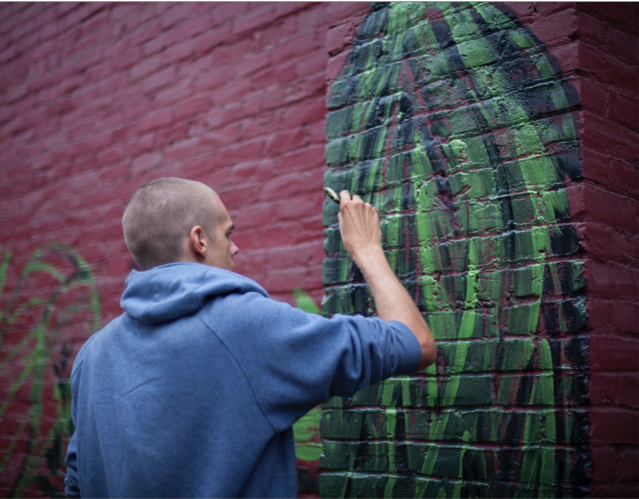
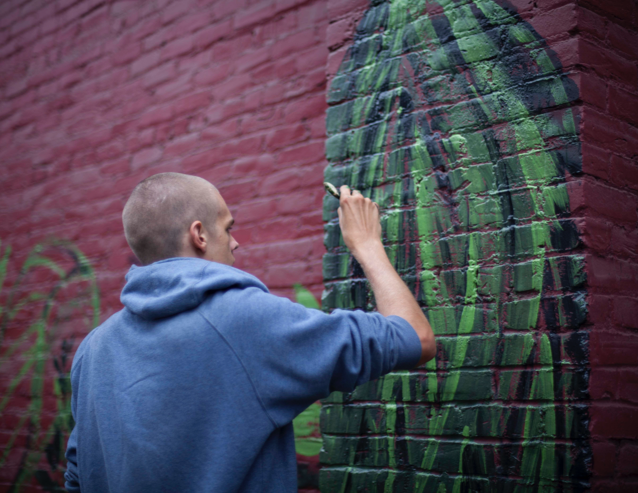
fix image issues

diff --git a/index.html b/index.html
@@ -85,7 +85,7 @@
                 <p>Here at ThinkShout we believe in creating lasting partnerships with nonprofits and forward thinking companies. Participating in our campaign is more than just buying a t-shirt. All of your money will go directly to p:ear, to fund programs like their Bike Mechanic and Barista schools which will help students learn lifelong skills and have a chance for more equal opportunities. But your money does more than just fund programs, $28 can buy three students breakfast and dinner and $25 can help with the cost of bus tickets and a pair of socks, journals and pens, sketchbook and pastels, first aid kits and even a hoodie.</p>
               </div>
               <div class="col-md-6">
-                <img id="ts-interns" class="img-responsive photo" src={% asset_path 'interns.png' %} alt="ThinkShout Interns">
+                <img id="ts-interns" class="img-responsive photo" src={% asset_path 'interns.jpg' %} alt="ThinkShout Interns">
               </div>
             </div>
             <img class="img-responsive" src={% asset_path 'stars.svg' %}>
